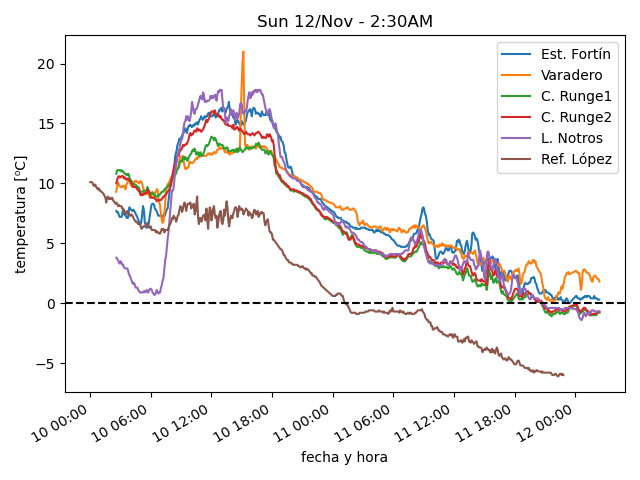
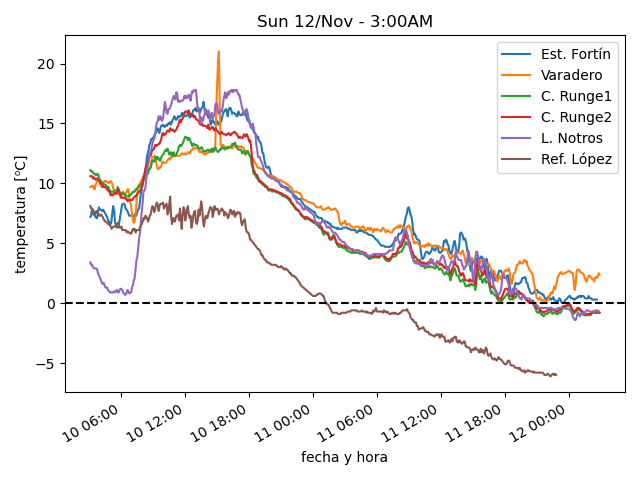
actualiza datos

diff --git a/estaciones/estacion4.html b/estaciones/estacion4.html
@@ -18,32 +18,32 @@
     </tr>
     <tr>
      <td class="stats_data">
-      2:24AM
+      2:54AM
      </td>
     </tr>
     <tr>
      <td class="stats_data">
-      -0.7⁰C
+      -0.8⁰C
      </td>
     </tr>
     <tr>
      <td class="stats_data">
-      -1.3⁰C
+      -1.9⁰C
      </td>
     </tr>
     <tr>
      <td class="stats_data">
-      95.4%
+      92.7%
      </td>
     </tr>
     <tr>
      <td class="stats_data">
-      1014.22hPa
+      1014.12hPa
      </td>
     </tr>
     <tr>
      <td class="stats_data">
-      1.6/2.8 km/hr SW
+      1.0/1.8 km/hr SW
      </td>
     </tr>
     <tr>

diff --git a/estaciones/estacion2.html b/estaciones/estacion2.html
@@ -18,12 +18,12 @@
     </tr>
     <tr>
      <td class="stats_data">
-      2:24AM
+      2:54AM
      </td>
     </tr>
     <tr>
      <td class="stats_data">
-      1.8⁰C
+      2.4⁰C
      </td>
     </tr>
     <tr>
@@ -33,17 +33,17 @@
     </tr>
     <tr>
      <td class="stats_data">
-      89.8%
+      86.4%
      </td>
     </tr>
     <tr>
      <td class="stats_data">
-      1021.13hPa
+      1020.83hPa
      </td>
     </tr>
     <tr>
      <td class="stats_data">
-      26.5/34.1 km/hr WNW
+      29.8/37.4 km/hr NW
      </td>
     </tr>
     <tr>

diff --git a/estaciones/estacion3.html b/estaciones/estacion3.html
@@ -18,7 +18,7 @@
     </tr>
     <tr>
      <td class="stats_data">
-      2:24AM
+      2:54AM
      </td>
     </tr>
     <tr>
@@ -28,22 +28,22 @@
     </tr>
     <tr>
      <td class="stats_data">
-      -1.1⁰C
+      -1.5⁰C
      </td>
     </tr>
     <tr>
      <td class="stats_data">
-      98.0%
+      94.6%
      </td>
     </tr>
     <tr>
      <td class="stats_data">
-      1005.72hPa
+      1005.42hPa
      </td>
     </tr>
     <tr>
      <td class="stats_data">
-      5.6/7.7 km/hr W
+      4.1/6.1 km/hr W
      </td>
     </tr>
     <tr>

diff --git a/estaciones/estacion1.html b/estaciones/estacion1.html
@@ -18,7 +18,7 @@
     </tr>
     <tr>
      <td class="stats_data">
-      2:23AM
+      2:39AM
      </td>
     </tr>
     <tr>
@@ -28,12 +28,12 @@
     </tr>
     <tr>
      <td class="stats_data">
-      -4.0⁰C
+      -3.8⁰C
      </td>
     </tr>
     <tr>
      <td class="stats_data">
-      73.0%
+      74.0%
      </td>
     </tr>
     <tr>
@@ -43,7 +43,7 @@
     </tr>
     <tr>
      <td class="stats_data">
-      12.7/23.3 km/hr WNW
+      13.4/18.8 km/hr WSW
      </td>
     </tr>
     <tr>

diff --git a/estaciones/estacion5.html b/estaciones/estacion5.html
@@ -18,7 +18,7 @@
     </tr>
     <tr>
      <td class="stats_data">
-      2:20AM
+      2:50AM
      </td>
     </tr>
     <tr>
@@ -28,17 +28,17 @@
     </tr>
     <tr>
      <td class="stats_data">
-      -2.0⁰C
+      -2.2⁰C
      </td>
     </tr>
     <tr>
      <td class="stats_data">
-      91.0%
+      89.0%
      </td>
     </tr>
     <tr>
      <td class="stats_data">
-      1020.52hPa
+      1020.45hPa
      </td>
     </tr>
     <tr>
